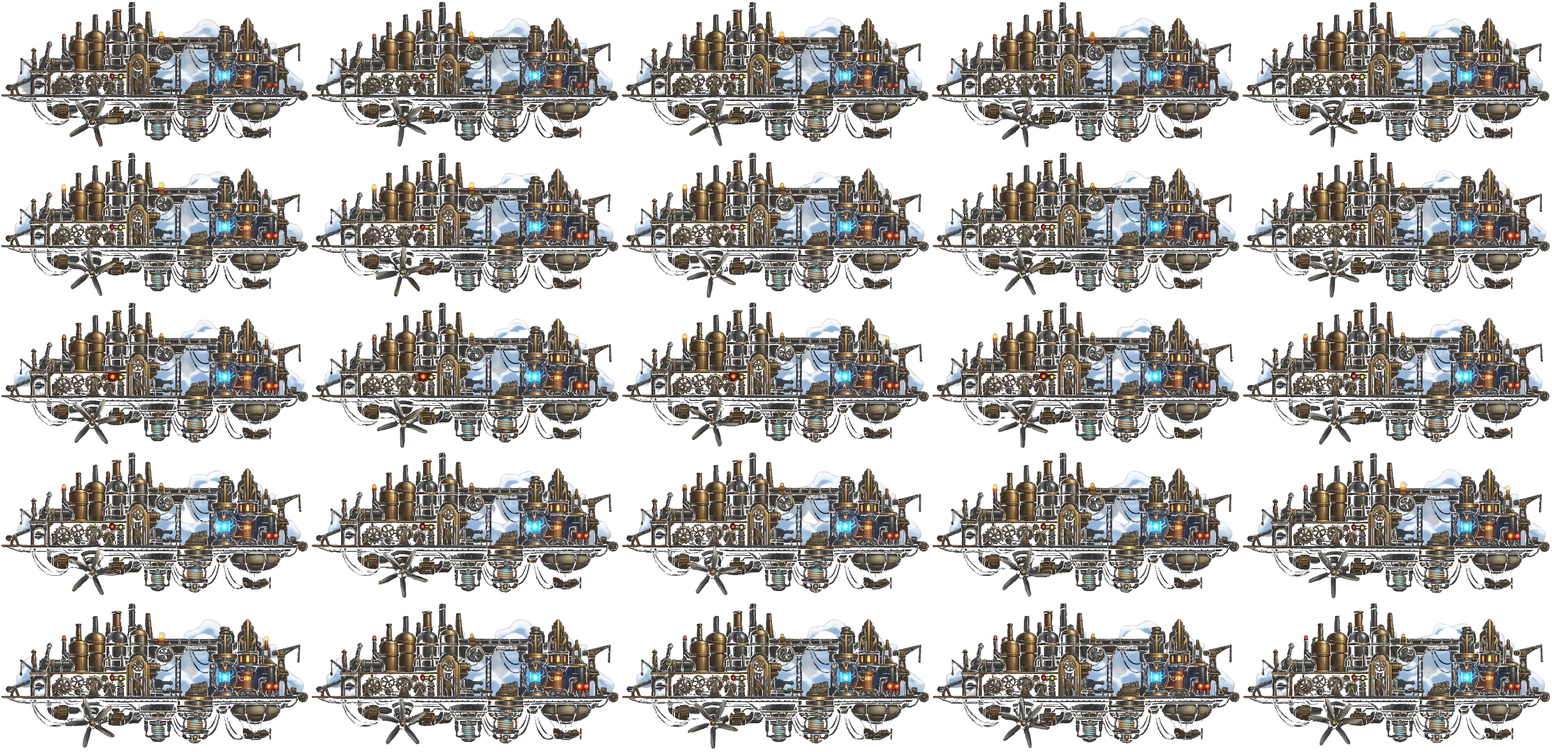
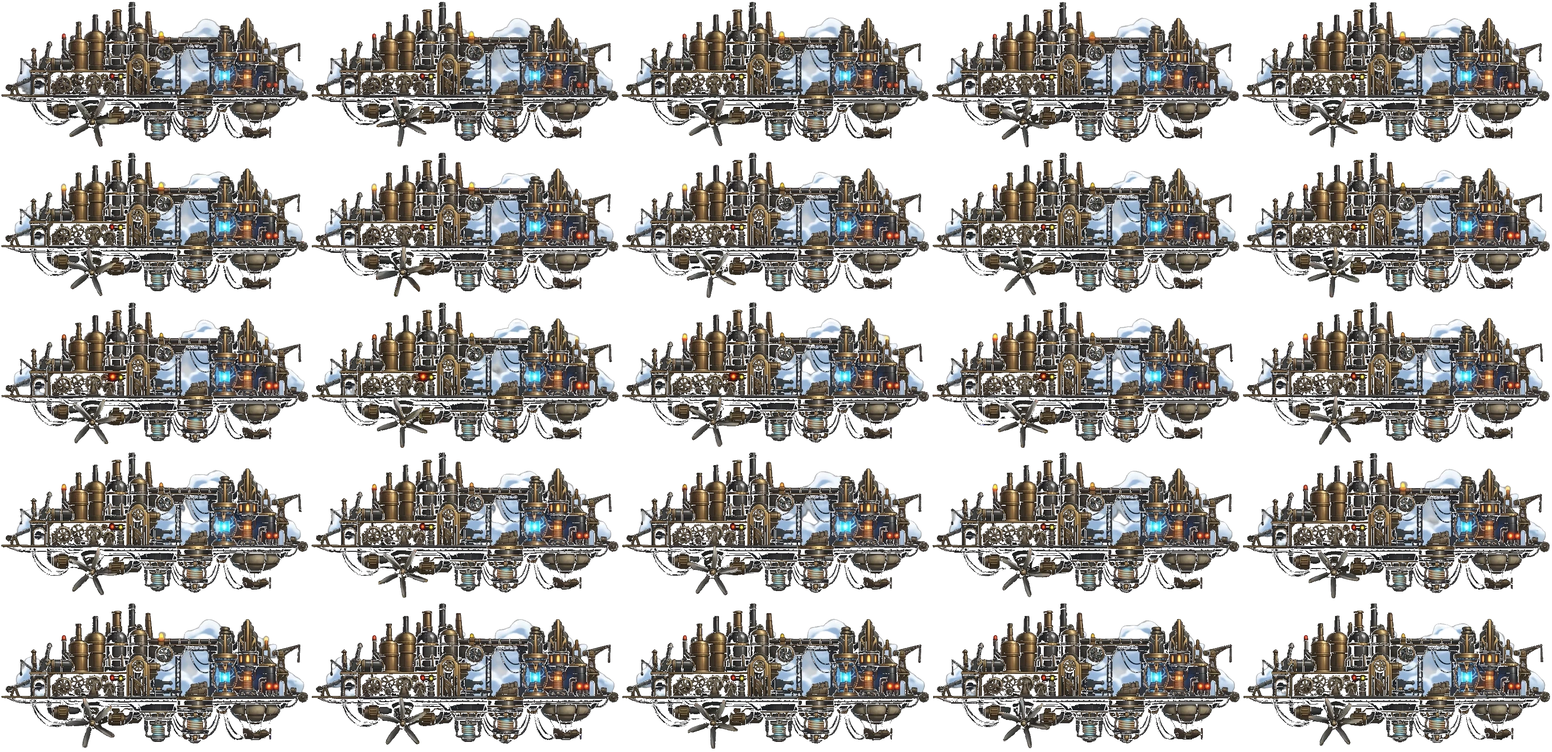
Add files via upload

diff --git a/ruff-tutorial.js b/ruff-tutorial.js
@@ -816,10 +816,11 @@
       if (ft) { ft.style.display = "none"; ft.style.visibility = "hidden"; }
     } catch (e) {}
     try {
-      var stages = ["intro","altitude","obstacles","rings","crystals","shield","powerup","airship","boss1","combined","landing"];
+            var stages = ["intro","takeoff","altitude","obstacles","rings","crystals","shield","powerup","airship","boss1","combined","landing","report"];
       var si = stages.indexOf(name);
       if (si < 0) si = 0;
-      if (typeof window.updateUnifiedProgress === "function") window.updateUnifiedProgress(((si + 1) / stages.length) * 100);
+      var pct = (name === "report" || name === "landing") ? 100 : ((si / (stages.length - 1)) * 100);
+      if (typeof window.updateUnifiedProgress === "function") window.updateUnifiedProgress(pct);
     } catch (e) {}
     if (name !== "powerup") ruffPowerOrb = null;
     if (typeof powerup !== "undefined" && name !== "powerup" && name !== "combined") powerup = null;
@@ -829,10 +830,11 @@
       if (ft) { ft.style.display = "none"; ft.style.visibility = "hidden"; }
     } catch (e) {}
     try {
-      var stages = ["intro","altitude","obstacles","rings","crystals","shield","powerup","airship","boss1","combined","landing"];
+            var stages = ["intro","takeoff","altitude","obstacles","rings","crystals","shield","powerup","airship","boss1","combined","landing","report"];
       var si = stages.indexOf(name);
       if (si < 0) si = 0;
-      if (typeof window.updateUnifiedProgress === "function") window.updateUnifiedProgress(((si + 1) / stages.length) * 100);
+      var pct = (name === "report" || name === "landing") ? 100 : ((si / (stages.length - 1)) * 100);
+      if (typeof window.updateUnifiedProgress === "function") window.updateUnifiedProgress(pct);
     } catch (e) {}
     syncStageFlags();
     // Ensure far-sky balloons stay present for the whole training
@@ -1280,10 +1282,11 @@
       var overlapX = (hw + aw * 0.5) - Math.abs(px - (ax + aw * 0.5));
       var overlapY = (hh + ah * 0.5) - Math.abs(py - (ay + ah * 0.5));
       if (overlapX > 0 && overlapY > 0) {
-        if (overlapX < overlapY) {
-          player.x += (px < ax + aw * 0.5) ? -overlapX : overlapX;
-        } else {
-          player.y += (py < ay + ah * 0.5) ? -overlapY : overlapY;
+        // Horizontal-only separation — never launch player top/bottom
+        player.x += (px < ax + aw * 0.5) ? -overlapX : overlapX;
+        // Soft vertical clamp only if deeply embedded (small nudge, not full push)
+        if (overlapY > hh * 0.85) {
+          player.y += (py < ay + ah * 0.5) ? -Math.min(overlapY * 0.15, 6) : Math.min(overlapY * 0.15, 6);
         }
         if (!ruffAirship.hitCd || ruffAirship.hitCd <= 0) {
           ruffAirship.hitCd = 0.85;
@@ -1301,13 +1304,15 @@
     // Propeller spin state (slightly slower)
     ruffAirship.propAngle = (ruffAirship.propAngle || 0) + dt * 12;
     ruffAirship.propBlur = 0.55 + 0.45 * Math.abs(Math.sin(ruffAirship.propAngle * 0.5));
-    // Wind streaks along whole vessel (slower / softer than birds)
+    // Wind streaks across entire vessel
     try {
-      if (typeof maybeEmitWind === "function") {
+      var emit = (typeof maybeEmitWind === "function") ? maybeEmitWind : window.maybeEmitWind;
+      if (emit) {
         var cyW = ruffAirship.y + Math.sin(ruffAirship.bob || 0) * 6;
-        maybeEmitWind(ruffAirship.x + ruffAirship.w * 0.55, cyW + ruffAirship.h * 0.45, ruffAirship.w * 0.7, ruffAirship.h * 0.55, 4.2, dt, "obstacle");
-        maybeEmitWind(ruffAirship.x + ruffAirship.w * 0.25, cyW + ruffAirship.h * 0.35, ruffAirship.w * 0.4, ruffAirship.h * 0.4, 2.8, dt, "obstacle");
-        maybeEmitWind(ruffAirship.x + ruffAirship.w * 0.75, cyW + ruffAirship.h * 0.5, ruffAirship.w * 0.35, ruffAirship.h * 0.35, 3.0, dt, "obstacle");
+        emit(ruffAirship.x + ruffAirship.w * 0.5, cyW + ruffAirship.h * 0.4, ruffAirship.w * 0.85, ruffAirship.h * 0.7, 14, dt, "obstacle");
+        emit(ruffAirship.x + ruffAirship.w * 0.2, cyW + ruffAirship.h * 0.35, ruffAirship.w * 0.4, ruffAirship.h * 0.5, 9, dt, "obstacle");
+        emit(ruffAirship.x + ruffAirship.w * 0.75, cyW + ruffAirship.h * 0.45, ruffAirship.w * 0.4, ruffAirship.h * 0.5, 9, dt, "obstacle");
+        emit(ruffAirship.x + ruffAirship.w * 0.4, cyW + ruffAirship.h * 0.55, ruffAirship.w * 0.5, ruffAirship.h * 0.35, 7, dt, "obstacle");
       }
     } catch (eW) {}
     if (ruffAirship.x + ruffAirship.w < -40) {
@@ -1345,6 +1350,7 @@
     }
     var sheet = (typeof images !== "undefined" && images) ? images.training_airship : null;
     ctx.save();
+    ctx.globalAlpha = 1;
     ctx.globalCompositeOperation = "source-over";
     if (sheet && sheet.naturalWidth) {
       var cols = 5, rows = 5;
@@ -1353,11 +1359,14 @@
       var fr = (a.frame || 0) % 25;
       var col = fr % cols;
       var row = Math.floor(fr / cols) % rows;
-      // Inset slightly to crop cell padding / white edges
-      var pad = Math.min(fw, fh) * 0.04;
+      var pad = Math.min(fw, fh) * 0.03;
+      // Double-draw for solid presence
       ctx.drawImage(sheet, col * fw + pad, row * fh + pad, fw - pad * 2, fh - pad * 2, a.x, cy, a.w, a.h);
+      ctx.globalAlpha = 0.55;
+      ctx.drawImage(sheet, col * fw + pad, row * fh + pad, fw - pad * 2, fh - pad * 2, a.x, cy, a.w, a.h);
+      ctx.globalAlpha = 1;
     } else {
-      ctx.fillStyle = "rgba(80,60,40,0.85)";
+      ctx.fillStyle = "rgba(80,60,40,1)";
       ctx.fillRect(a.x, cy, a.w, a.h * 0.7);
     }
     ctx.restore();
@@ -1708,13 +1717,8 @@
 
   function updateCrystals(dt) {
     if (!ruffCrystals.length) return;
-    // Always scroll — never freeze when birds/obstacles appear
-    let spd = (typeof obstacleSpeed === "number" && obstacleSpeed > 40) ? obstacleSpeed : 210;
-    spd = Math.max(180, spd);
-    // Last lesson (combined): slower crystals
-    if (ruffStage === "combined" || window.__airborneRuffStage === "combined") {
-      spd = Math.min(spd, 95);
-    }
+    // Fixed crystal scroll speed — independent of obstacleSpeed / lesson
+    let spd = 95;
     const px = (typeof player !== "undefined" && player) ? player.x : 0;
     const py = (typeof player !== "undefined" && player) ? player.y : 0;
     const pw = (typeof player !== "undefined" && player) ? player.w * 0.4 : 20;
@@ -1817,9 +1821,8 @@
 
   function updateTrainingCoins(dt) {
     if (!ruffCoins.length) return;
-    // Fixed constant scroll speed — never changes mid-float
+    // Fixed constant scroll speed — independent of stage / obstacleSpeed
     const spd = 95;
-    // Force every coin to the same horizontal speed (no per-coin variance)
     const px = (typeof player !== "undefined" && player) ? player.x : 0;
     const py = (typeof player !== "undefined" && player) ? player.y : 0;
     const pw = (typeof player !== "undefined" && player) ? player.w * 0.42 : 20;
@@ -2311,6 +2314,8 @@
 
   // ---------- Flight report ----------
   function showFlightReport() {
+    try { if (window.updateUnifiedProgress) window.updateUnifiedProgress(100); } catch (e) {}
+
     const el = reportEl();
     if (!el) return;
     try {

diff --git a/index.html b/index.html
@@ -7,9 +7,9 @@
 <meta name="apple-mobile-web-app-status-bar-style" content="black-translucent" />
 <meta name="format-detection" content="telephone=no" />
 <title>Airborne Aces</title>
-<link rel="stylesheet" href="style.css?v=ruff352">
-<link rel="stylesheet" href="blimp-profile.css?v=ruff352">
-<link rel="stylesheet" href="launch-screens.css?v=ruff352">
+<link rel="stylesheet" href="style.css?v=ruff353">
+<link rel="stylesheet" href="blimp-profile.css?v=ruff353">
+<link rel="stylesheet" href="launch-screens.css?v=ruff353">
 <style id="otg-legacy-splash-hide">#splashScreen{visibility:hidden!important;pointer-events:none!important;}</style>
 </head>
 <body>
@@ -38,7 +38,7 @@
   <div class="otg-enter-wrap">
     <button class="otg-enter-btn" id="otg-enter-btn" type="button" aria-label="Enter Hangar">
     <span class="enterHangarShine" aria-hidden="true"></span>
-  <img class="enterHangarImg" src="enter_hangar_btn.png?v=ruff352" alt="Enter Hangar" draggable="false" />
+  <img class="enterHangarImg" src="enter_hangar_btn.png?v=ruff353" alt="Enter Hangar" draggable="false" />
   </button>
   </div>
   
@@ -107,7 +107,7 @@
   </div>
   <button class="enterHangarBtn" id="splashEnterBtn" type="button" aria-label="Enter Hangar">
   <span class="enterHangarShine" aria-hidden="true"></span>
-  <img class="enterHangarImg" src="enter_hangar_btn.png?v=ruff352" alt="Enter Hangar" draggable="false" />
+  <img class="enterHangarImg" src="enter_hangar_btn.png?v=ruff353" alt="Enter Hangar" draggable="false" />
 </button>
 </div>
 
@@ -279,7 +279,7 @@
 
 <div id="pauseOverlay" class="hidden" aria-hidden="true">
   <div class="pausePanel" role="dialog" aria-labelledby="pauseTitle">
-    <img class="pausePlateImg" src="pause_menu_plate.webp?v=ruff352" alt="" draggable="false" />
+    <img class="pausePlateImg" src="pause_menu_plate.webp?v=ruff353" alt="" draggable="false" />
     <div class="pauseHitLayer">
       <!-- visually hidden title for a11y; art shows PAUSED -->
       <h2 class="pauseTitle srOnly" id="pauseTitle">PAUSED</h2>
@@ -310,7 +310,7 @@
 </div>
 
 <div id="hudFrame">
-  <img id="hudFrameImg" crossorigin="anonymous" src="hudFrame.webp?v=ruff352" alt="" />
+  <img id="hudFrameImg" crossorigin="anonymous" src="hudFrame.webp?v=ruff353" alt="" />
 
   <div id="healthMeter">
     <img id="healthImg" crossorigin="anonymous" src="heartPickup.webp?cb=2" alt="Health" />
@@ -476,23 +476,23 @@
   </div>
 </div>
 
-<script src="assets-placeholders.js?v=ruff352"></script>
-<script src="blimp-profile.js?v=ruff352"></script>
-<script src="menu-intro.js?v=ruff352"></script>
-<script src="world-map.js?v=ruff352"></script>
-<script src="audio.js?v=ruff352"></script>
-<script src="asset-loading.js?v=ruff352"></script>
-<script src="ruff-tutorial.js?v=ruff352"></script>
-<script src="world-buildings.js?v=ruff352"></script>
-<script src="player-obstacles.js?v=ruff352"></script>
-<script src="power-fx.js?v=ruff352"></script>
-<script src="bosses.js?v=ruff352"></script>
-<script src="boss-dialogue.js?v=ruff352"></script>
-<script src="effects-combat.js?v=ruff352"></script>
-<script src="gamestate-ui.js?v=ruff352"></script>
-<script src="world-atmosphere.js?v=ruff352"></script>
-<script src="main-loop.js?v=ruff352"></script>
+<script src="assets-placeholders.js?v=ruff353"></script>
+<script src="blimp-profile.js?v=ruff353"></script>
+<script src="menu-intro.js?v=ruff353"></script>
+<script src="world-map.js?v=ruff353"></script>
+<script src="audio.js?v=ruff353"></script>
+<script src="asset-loading.js?v=ruff353"></script>
+<script src="ruff-tutorial.js?v=ruff353"></script>
+<script src="world-buildings.js?v=ruff353"></script>
+<script src="player-obstacles.js?v=ruff353"></script>
+<script src="power-fx.js?v=ruff353"></script>
+<script src="bosses.js?v=ruff353"></script>
+<script src="boss-dialogue.js?v=ruff353"></script>
+<script src="effects-combat.js?v=ruff353"></script>
+<script src="gamestate-ui.js?v=ruff353"></script>
+<script src="world-atmosphere.js?v=ruff353"></script>
+<script src="main-loop.js?v=ruff353"></script>
 
-<script src="launch-screens.js?v=ruff352"></script>
+<script src="launch-screens.js?v=ruff353"></script>
 </body>
 </html>

diff --git a/player-obstacles.js b/player-obstacles.js
@@ -682,7 +682,7 @@
       bobPhase: Math.random() * Math.PI * 2,
       bobSpeed: 1.5 + Math.random() * 1.2,
       bobAmount: 8 + Math.random() * 10,
-      speedMult: type === "balloon_anim" ? 0.72 : ((type === "bird_a" || type === "bird_b") ? 0.9 : 1),
+      speedMult: type === "balloon_anim" ? 0.72 : ((type === "bird_a" || type === "bird_b") ? 0.855 : 1),
       animFrame: Math.floor(Math.random() * birdFrameCount),
       animTimer: Math.random() / OBSTACLE_ANIM_FPS,
       birdSpecies: birdSpecies,

diff --git a/asset-loading.js b/asset-loading.js
@@ -4,7 +4,7 @@
   const ASSET_SOURCES = {
     fireball_sheet: "fireball_sheet.webp",
     shield_sheet: "shield_sheet.webp",
-    training_airship: "training_airship.webp?v=ruff352",
+    training_airship: "training_airship.webp?v=ruff353",
     blimp:   "blimp.webp?cb=2",
     pirate_bomb: "pirate_bomb.webp",
     power_icon_blimp3: "power_icon_blimp3.webp",

diff --git a/effects-combat.js b/effects-combat.js
@@ -1022,6 +1022,7 @@ if (typeof rocketTrailParticles !== "undefined") rocketTrailParticles = [];
       });
     }
   }
+  window.maybeEmitWind = maybeEmitWind;
 
   function updateWindParticles(dt) {
     windParticles.forEach(p => {
